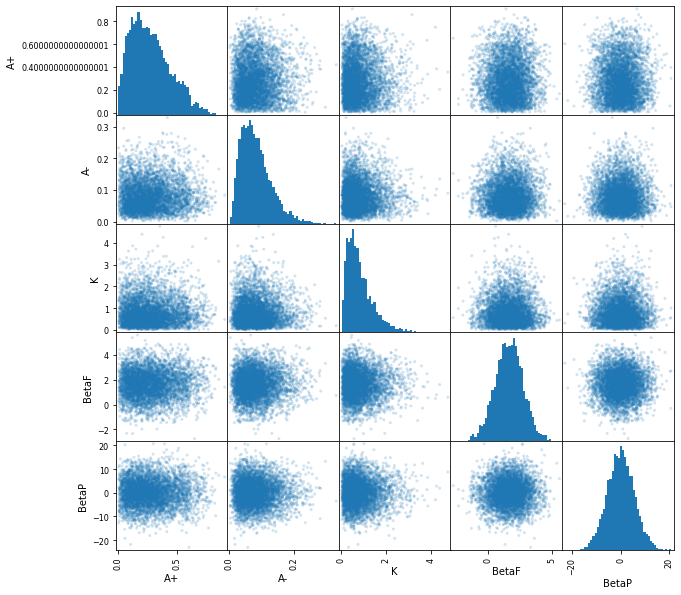
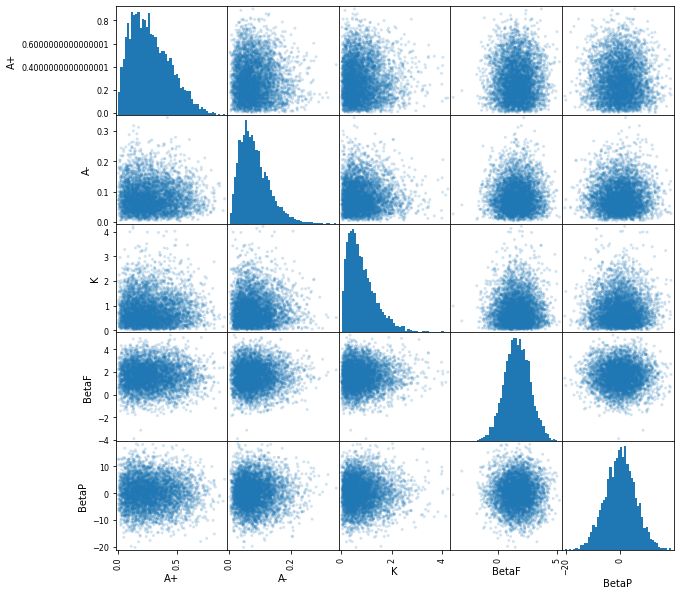
deploy: 160e589b29d0ebd772e9ecb983bc2175a27bedd5

diff --git a/searchindex.js b/searchindex.js
@@ -1,1 +1,1 @@
-Search.setIndex({docnames:["clustering","conclusion","data_exploration","introduction","synthetic_data"],envversion:{"sphinx.domains.c":1,"sphinx.domains.changeset":1,"sphinx.domains.citation":1,"sphinx.domains.cpp":1,"sphinx.domains.index":1,"sphinx.domains.javascript":1,"sphinx.domains.math":2,"sphinx.domains.python":1,"sphinx.domains.rst":1,"sphinx.domains.std":1,sphinx:56},filenames:["clustering.ipynb","conclusion.ipynb","data_exploration.ipynb","introduction.ipynb","synthetic_data.ipynb"],objects:{},objnames:{},objtypes:{},terms:{"\u0177_i":0,"case":4,"final":4,"function":4,"new":3,"return":[0,4],"switch":[0,1],"true":4,"while":0,Age:0,For:[0,1,4],One:2,The:[0,1,2,3,4],Then:4,There:[0,1,2,3,4],These:[0,3],With:0,_df:2,abl:4,abov:0,account:0,accur:1,accuraci:1,across:[0,4],action:1,actual:2,add:[0,4],additionali:3,after:1,again:0,against:[0,1,4],aged:3,agg_cluster3:0,agg_cluster_a:0,agg_cluster_al:0,agg_cluster_old:0,agglomer:3,agglomerativeclust:0,all:2,almost:0,alon:0,alpha:[0,1,4],also:[0,2,3],although:1,amount:3,analys:3,ani:[1,2],annot:0,anoth:[0,1,2],appear:[0,1],append:[0,4],approach:3,approxim:4,around:[1,2],assign:0,assum:4,astyp:[0,2,4],attempt:3,attribut:3,avail:0,averag:[0,3],ax_row:4,back:0,bad:[3,4],balu:0,base:[1,2,4],bechara:4,been:0,behaviour:3,being:4,below:0,bend:0,beta:[1,4],beta_f:[0,1,2,3,4],beta_p:[0,1,2,3,4],beta_p_split:[2,4],betaf:[2,4],betak:1,betap:[1,2,4],better:0,between:[0,2,4],bin:[0,2,4],bit:4,blue:[0,4],book:2,both:[2,4],bottom:0,box:0,c_i:0,calcul:0,can:[2,3,4],captur:4,card:3,cat:[0,2,4],categori:[0,2,4],center:1,central:[0,4],centroid:0,centroids_beta:0,certain:1,characterist:0,check:0,choic:1,choos:0,chose:3,chosen:[2,3],clear:[0,2],clearli:[0,4],closer:4,cluster:[3,4],cluster_centers_:0,cmap:[0,2],code:[0,2,4],coeffici:0,col:4,column:4,come:2,compar:[0,4],complet:0,concat:4,concentr:[2,4],conclus:2,confusion_matrix:0,consist:[0,3],contain:0,continu:4,cortex:[1,4],could:[0,4],cover:0,creat:4,csv:[0,2],curv:0,d_param:4,damag:4,data:[0,1,3],data_df:4,datafram:4,datapoint:0,dataset:4,deal:2,decai:[1,2,4],decis:3,deck:[0,1,3,4],deeper:2,def:[0,4],defin:[0,4],degred:4,densiti:4,depend:2,describ:3,detail:[3,4],deviat:4,df1:0,df_orl:[0,2,4],df_orl_old:[0,2,4],df_orl_old_a:4,df_orl_old_b:4,df_orl_young:[2,4],diagon:2,dict:[0,2,4],differ:[0,2,3,4],difficult:2,discov:1,discoveri:1,displai:4,dist_param:4,dist_params_list:4,dist_params_old:4,dist_params_old_a:4,dist_params_old_b:4,dist_params_young:4,distanc:0,distict:0,distinct:[1,4],distort:0,distribut:[0,1,2,3],divid:0,divmod:4,doe:0,down:2,draw:4,draw_dist_fit:4,drill:2,drop:4,dure:[0,1,4],dysfunct:1,each:[0,1,2,3,4],easier:0,easili:0,either:[0,3],elif:4,elimin:0,enough:1,entir:4,enumer:4,epsilon:0,equat:0,error:0,euclidean:0,evalu:3,even:4,evenli:0,examin:1,exampl:[1,3],except:2,exhibit:0,expect:0,explain:[1,4],explor:[0,1,3,4],face:4,fairli:4,fake:4,fals:4,fig:[0,4],figsiz:[0,2,4],figur:0,find:[1,3],first:[0,1,4],fit:[0,3,4],fit_all_param:4,fit_beta:4,fit_gamma:4,fit_norm:4,floc:4,follow:[1,2,3,4],foremost:1,format:4,found:[1,4],frac:0,freq:2,frequenc:[0,1],from:[0,1,4],fscale:4,further:[1,2],furthermor:0,futher:2,futur:1,gambl:1,game:3,gamma:[1,4],gather:1,gener:[1,3],gentl:0,get:4,given:1,goal:3,goe:0,going:2,good:[0,3],graph:0,greater:0,grei:2,group:3,group_label:4,group_siz:4,had:[0,1],hard:0,has:[0,3,4],have:[0,1,2,3,4],head:[0,2,4],heatmap:0,help:0,here:[0,2,4],hide:4,hierarch:3,high:[0,1,4],higher:[0,1,4],hist:[2,4],hist_kwd:[0,2,4],how:0,howev:[0,4],hypothes:1,hypothesi:1,identifi:0,igt:3,improv:0,independ:4,indic:0,individu:3,inertia_:0,inform:1,initi:0,integ:4,interest:1,investig:[0,1],iowa:1,isn:1,item:4,its:[0,1],just:[0,1],kmean:0,kmeanmodel:0,kmeans2:0,kmeans_beta:0,label:[0,2,4],labels_:0,labels_a:0,labels_b:0,larg:4,lead:3,learn:[1,2,3],left:[0,2,4],len:4,less:[0,2],let:[0,4],level:0,life:3,like:0,line:0,linspac:4,loc:4,look:[0,2,3],lose:3,loss:3,lot:0,low:[0,1,4],lower:[0,1],lying:0,mai:4,mainli:[0,1],major:0,make:3,mani:[1,3],mark:2,match:0,max:[0,4],mean:[1,3,4],measur:[0,3],method:[3,4],metric:[0,1],middl:[0,1],min:4,mix:0,model:[0,1,3],model_param:4,monei:3,more:[1,2,3,4],most:[0,1],mostli:0,much:[0,2,3,4],n_cluster:0,nan:4,need:[1,4],neighbour:0,net:3,neutral:[0,1],nice:2,norm:4,normal:[1,2,4],notabl:4,note:4,notic:0,now:[0,4],number:[0,2,3],object:0,observ:0,often:0,old:[1,3],one:[1,3,4],onli:4,optim:[0,3],orang:4,orbifront:1,orl:[3,4],other:[0,1,2],our:[1,3,4],out:[0,2,4],outcom:[0,1,2,3,4],over:3,overlap:0,own:0,page:1,paper:1,param:4,paramat:[0,1],paramet:[1,2,3],parameter_igt_orl:[0,2],parameteris:4,paramount:1,particip:[0,1,2,3,4],particular:0,pdf:4,peak:0,peopl:[0,1,2],perserver:4,persever:[0,1,2],person:[0,4],phenotyp:1,pick:0,plai:3,plot:[0,1,2,4],plt:[0,2,4],point:[0,2,4],poisson:4,poorli:0,possibl:[1,3],predict:1,predomin:1,prefer:[0,1],prefront:4,present:3,previou:0,primarili:0,principl:0,print:4,proport:4,prove:1,proxi:3,psycholog:3,punish:[2,3,4],quit:4,rang:[0,4],rate:[1,2,4],read_csv:[0,2],real:[3,4],realiti:4,realli:4,reason:[0,1],red:2,reinforc:3,relat:0,repres:[2,3,4],represent:[1,3,4],research:1,result:1,reveal:1,reward:[2,3],right:[0,2],roughli:[2,4],row:4,rvs:4,same:[0,2,4],sampl:[1,4],saw:4,scale:4,scatter:0,scatter_matrix:[0,2,4],score:[0,1],second:0,section:3,see:[0,2,4],seem:[0,2,4],separ:0,seri:4,set1:[0,2],set1_r:0,set_titl:4,set_vis:4,set_xlabel:0,set_ylabel:[0,4],set_yticklabel:0,shape:4,show:[0,1,2,4],sigma:4,signific:[0,1],silhouette_scor:0,similar:[0,2,4],simul:3,singl:0,size:[1,4],sizeabl:0,skew:[2,4],slight:4,slightli:[0,2],smaller:0,solid:2,solidifi:1,some:[0,1],somewhat:0,split:[0,3,4],spread:[0,2,4],squar:0,sse:0,standard:4,start:4,std:4,stdout:4,stem:0,stick:0,still:0,structur:3,struggl:4,studi:1,subjid:[0,2,4],subjid_label:[0,2],subplot:[0,4],successfulli:0,sum:0,sum_:0,support:1,synth_data:4,synth_datafram:4,synth_df:4,synth_singl:4,synthesi:1,synthet:3,system:1,task:1,tend:1,tendenc:[0,1],than:4,thei:[0,1,3,4],them:[2,3,4],theta:4,thi:[0,1,2,3,4],those:0,though:4,thought:3,three:[0,1,4],through:0,time:[0,3],titl:[0,4],top:0,trial:3,turn:3,two:[1,2,3],uncertainti:0,underli:4,understand:0,uniform:[2,4],unus:4,use:[0,3,4],used:[1,3,4],using:[0,1,3],valid:[0,4],valu:[0,1,2,4],vari:[2,3],variat:[0,2,3],varieti:4,veri:0,versu:4,viridi:0,visual:0,wai:3,well:[0,4],were:[1,3],what:0,when:[0,1,4],where:[0,1],which:[0,1,2,3,4],who:[0,1],whole:2,whose:0,win:[0,1],within:[0,4],work:[1,4],would:[2,4],xlabel:0,y_i:0,y_label:4,ylabel:0,you:0,young:[1,3],zero:0,zip:4},titles:["Clustering","Conclusions","Data Exploration","Introduction","Generating Synthetic Data"],titleterms:{"new":4,Using:0,age:0,agglom:0,all:[0,4],analysi:[0,3],appli:4,back:4,base:0,betaf:0,betak:0,betap:0,choos:4,classifi:0,cluster:[0,1],column:0,conclus:1,data:[2,4],dataset:[2,3],distribut:4,elbow:0,entir:2,evalu:0,explor:2,find:0,gambl:3,gener:4,group:[0,2,4],hierarch:0,introduct:3,iowa:3,mean:0,method:0,model:4,more:0,old:[0,2,4],onli:0,paramet:[0,4],paramt:2,prep:2,put:4,result:4,silhouett:0,singl:4,smaller:4,split:2,synthet:4,task:3,than:0,togeth:4,two:0,type:4,visualis:2,young:[0,2,4]}})
+Search.setIndex({docnames:["clustering","conclusion","data_exploration","introduction","synthetic_data"],envversion:{"sphinx.domains.c":1,"sphinx.domains.changeset":1,"sphinx.domains.citation":1,"sphinx.domains.cpp":1,"sphinx.domains.index":1,"sphinx.domains.javascript":1,"sphinx.domains.math":2,"sphinx.domains.python":1,"sphinx.domains.rst":1,"sphinx.domains.std":1,sphinx:56},filenames:["clustering.ipynb","conclusion.ipynb","data_exploration.ipynb","introduction.ipynb","synthetic_data.ipynb"],objects:{},objnames:{},objtypes:{},terms:{"\u0177_i":0,"case":4,"final":4,"function":4,"new":3,"return":[0,4],"switch":[0,1],"true":4,"while":0,Age:0,For:[0,1,4],One:2,The:[0,1,2,3,4],Then:4,There:[0,1,2,3,4],These:[0,3],With:0,_df:2,abl:4,abov:0,account:0,accur:1,accuraci:1,across:[0,4],action:1,actual:2,add:[0,4],additionali:3,after:1,again:0,against:[0,1,4],aged:3,agg_cluster3:0,agg_cluster_a:0,agg_cluster_al:0,agg_cluster_old:0,agglomer:3,agglomerativeclust:0,all:2,almost:0,alon:0,alpha:[0,1,4],also:[0,2,3],although:1,amount:3,analys:3,ani:[1,2],annot:0,anoth:[0,1,2],appear:[0,1],append:[0,4],approach:3,approxim:4,around:[1,2],assign:0,assum:4,astyp:[0,2,4],attempt:3,attribut:3,avail:0,averag:[0,3],ax_row:4,back:0,bad:[3,4],balu:0,base:[1,2,4],bechara:4,been:0,behaviour:3,being:4,below:0,bend:0,beta:[1,4],beta_f:[0,1,2,3,4],beta_p:[0,1,2,3,4],beta_p_split:[2,4],betaf:[2,4],betak:1,betap:[1,2,4],better:0,between:[0,2,4],bin:[0,2,4],bit:4,blue:[0,4],book:2,both:[2,4],bottom:0,box:0,c_i:0,calcul:0,can:[2,3,4],captur:4,card:3,cat:[0,2,4],categori:[0,2,4],center:1,central:[0,4],centroid:0,centroids_beta:0,certain:1,characterist:0,check:0,choic:1,choos:0,chose:3,chosen:[2,3],clear:[0,2],clearli:[0,4],closer:4,cluster:[1,3,4],cluster_centers_:0,cmap:[0,2],code:[0,2,4],coeffici:0,col:4,column:4,come:2,compar:[0,4],complet:0,concat:4,concentr:[2,4],conclus:2,confusion_matrix:0,consist:[0,3],contain:0,continu:4,cortex:[1,4],could:[0,4],cover:0,creat:4,csv:[0,2],curv:0,d_param:4,damag:4,data:[0,1,3],data_df:4,datafram:4,datapoint:0,dataset:4,deal:2,decai:[1,2,4],decis:3,deck:[0,1,3,4],deeper:2,def:[0,4],defin:[0,4],degred:4,densiti:4,depend:2,describ:3,detail:[3,4],deviat:4,df1:0,df_orl:[0,2,4],df_orl_old:[0,2,4],df_orl_old_a:4,df_orl_old_b:4,df_orl_young:[2,4],diagon:2,dict:[0,2,4],differ:[0,2,3,4],difficult:2,discov:1,discoveri:1,displai:4,dist_param:4,dist_params_list:4,dist_params_old:4,dist_params_old_a:4,dist_params_old_b:4,dist_params_young:4,distanc:0,distict:0,distinct:[1,4],distort:0,distribut:[0,1,2,3],divid:0,divmod:4,doe:0,down:2,draw:4,draw_dist_fit:4,drill:2,drop:4,dure:[0,1,4],dysfunct:1,each:[0,1,2,3,4],easier:0,easili:0,either:[0,3],elif:4,elimin:0,enough:1,entir:4,enumer:4,epsilon:0,equat:0,error:0,euclidean:0,evalu:3,even:4,evenli:0,examin:1,exampl:[1,3],except:2,exhibit:0,expect:0,explain:[1,4],explor:[0,1,3,4],face:4,fairli:4,fake:4,fals:4,fig:[0,4],figsiz:[0,2,4],figur:0,find:[1,3],first:[0,1,4],fit:[0,3,4],fit_all_param:4,fit_beta:4,fit_gamma:4,fit_norm:4,floc:4,follow:[1,2,3,4],foremost:1,format:4,found:[1,4],frac:0,freq:2,frequenc:[0,1],from:[0,1,4],fscale:4,further:[1,2],furthermor:0,futher:2,futur:1,gambl:1,game:3,gamma:[1,4],gather:1,gener:[1,3],gentl:0,get:4,given:1,goal:3,goe:0,going:2,good:[0,3],graph:0,greater:0,grei:2,group:3,group_label:4,group_siz:4,had:[0,1],hard:0,has:[0,3,4],have:[0,1,2,3,4],head:[0,2,4],heatmap:0,help:0,here:[0,2,4],hide:4,hierarch:3,high:[0,1,4],higher:[0,1,4],hist:[2,4],hist_kwd:[0,2,4],how:0,howev:[0,4],hypothes:1,hypothesi:1,identifi:0,igt:3,improv:0,independ:4,indic:0,individu:3,inertia_:0,inform:1,initi:0,integ:4,interest:1,investig:[0,1],iowa:1,isn:1,item:4,its:[0,1],just:[0,1],kmean:0,kmeanmodel:0,kmeans2:0,kmeans_beta:0,label:[0,2,4],labels_:0,labels_a:0,labels_b:0,larg:4,lead:3,learn:[1,2,3],left:[0,2,4],len:4,less:[0,2],let:[0,4],level:0,life:3,like:0,line:0,linspac:4,loc:4,look:[0,2,3],lose:3,loss:3,lot:0,low:[0,1,4],lower:[0,1],lying:0,mai:4,mainli:[0,1],major:0,make:3,mani:[1,3],mark:2,match:0,max:[0,4],mean:[1,3,4],measur:[0,3],method:[3,4],metric:[0,1],middl:[0,1],min:4,mix:0,model:[0,1,3],model_param:4,monei:3,more:[1,2,3,4],most:[0,1],mostli:0,much:[0,2,3,4],n_cluster:0,nan:4,need:[1,4],neighbour:0,net:3,neutral:[0,1],nice:2,norm:4,normal:[1,2,4],notabl:4,note:4,notic:0,now:[0,4],number:[0,2,3],object:0,observ:0,often:0,old:[1,3],one:[1,3,4],onli:4,optim:[0,3],orang:4,orbifront:1,orl:[3,4],other:[0,1,2],our:[1,3,4],out:[0,2,4],outcom:[0,1,2,3,4],over:3,overlap:0,own:0,page:1,paper:1,param:4,paramat:[0,1],paramet:[1,2,3],parameter_igt_orl:[0,2],parameteris:4,paramount:1,particip:[0,1,2,3,4],particular:0,pdf:4,peak:0,peopl:[0,1,2],perserver:4,persever:[0,1,2],person:[0,4],phenotyp:1,pick:0,plai:3,plot:[0,1,2,4],plt:[0,2,4],point:[0,2,4],poisson:4,poorli:0,possibl:[1,3],predict:1,predomin:1,prefer:[0,1],prefront:4,present:3,previou:0,primarili:0,principl:0,print:4,proport:4,prove:1,proxi:3,psycholog:3,punish:[2,3,4],quit:4,rang:[0,4],rate:[1,2,4],read_csv:[0,2],real:[3,4],realiti:4,realli:4,reason:[0,1],red:2,reinforc:3,relat:0,repres:[2,3,4],represent:[1,3,4],research:1,result:1,reveal:1,reward:[2,3],right:[0,2],roughli:[2,4],row:4,rvs:4,same:[0,2,4],sampl:[1,4],saw:4,scale:4,scatter:0,scatter_matrix:[0,2,4],score:[0,1],second:0,section:3,see:[0,2,4],seem:[0,2,4],separ:0,seri:4,set1:[0,2],set1_r:0,set_titl:4,set_vis:4,set_xlabel:0,set_ylabel:[0,4],set_yticklabel:0,shape:4,show:[0,1,2,4],sigma:4,signific:[0,1],silhouette_scor:0,similar:[0,2,4],simul:3,singl:0,size:[1,4],sizeabl:0,skew:[2,4],slight:4,slightli:[0,2],smaller:0,solid:2,solidifi:1,some:[0,1],somewhat:0,split:[0,3,4],spread:[0,2,4],squar:0,sse:0,standard:4,start:4,std:4,stdout:4,stem:0,stick:0,still:0,structur:3,struggl:4,studi:1,subjid:[0,2,4],subjid_label:[0,2],subplot:[0,4],successfulli:0,sum:0,sum_:0,support:1,synth_data:4,synth_datafram:4,synth_df:4,synth_singl:4,synthesi:1,synthet:3,system:1,task:1,tend:1,tendenc:[0,1],than:4,thei:[0,1,3,4],them:[2,3,4],theta:4,thi:[0,1,2,3,4],those:0,though:4,thought:3,three:[0,1,4],through:0,time:[0,3],titl:[0,4],top:0,trial:3,turn:3,two:[1,2,3],uncertainti:0,underli:4,understand:0,uniform:[2,4],unus:4,use:[0,3,4],used:[1,3,4],using:[0,1,3],valid:[0,4],valu:[0,1,2,4],vari:[2,3],variat:[0,2,3],varieti:4,veri:0,versu:4,viridi:0,visual:0,wai:3,well:[0,4],were:[1,3],what:0,when:[0,1,4],where:[0,1],which:[0,1,2,3,4],who:[0,1],whole:2,whose:0,win:[0,1],within:[0,4],work:[1,4],would:[2,4],xlabel:0,y_i:0,y_label:4,ylabel:0,you:0,young:[1,3],zero:0,zip:4},titles:["Clustering","Conclusions","Data Exploration","Introduction","Generating Synthetic Data"],titleterms:{"new":4,Using:0,age:0,agglom:0,all:[0,4],analysi:[0,3],appli:4,back:4,base:0,betaf:0,betak:0,betap:0,choos:4,classifi:0,cluster:0,column:0,conclus:1,data:[2,4],dataset:[2,3],distribut:4,elbow:0,entir:2,evalu:0,explor:2,find:0,gambl:3,gener:4,group:[0,2,4],hierarch:0,introduct:3,iowa:3,mean:0,method:0,model:4,more:0,old:[0,2,4],onli:0,paramet:[0,4],paramt:2,prep:2,put:4,result:4,silhouett:0,singl:4,smaller:4,split:2,synthet:4,task:3,than:0,togeth:4,two:0,type:4,visualis:2,young:[0,2,4]}})

diff --git a/synthetic_data.html b/synthetic_data.html
@@ -505,43 +505,43 @@ Here we generate 5000 fake data points based on the entire dataset.</p>
   <tbody>
     <tr>
       <th>0</th>
-      <td>0.232722</td>
-      <td>0.050061</td>
-      <td>0.202516</td>
-      <td>2.288040</td>
-      <td>4.237800</td>
+      <td>0.228704</td>
+      <td>0.029733</td>
+      <td>0.406598</td>
+      <td>4.348894</td>
+      <td>-4.621616</td>
     </tr>
     <tr>
       <th>1</th>
-      <td>0.306349</td>
-      <td>0.028161</td>
-      <td>0.062407</td>
-      <td>0.407860</td>
-      <td>6.864061</td>
+      <td>0.471016</td>
+      <td>0.130897</td>
+      <td>0.109413</td>
+      <td>1.710904</td>
+      <td>7.213538</td>
     </tr>
     <tr>
       <th>2</th>
-      <td>0.287915</td>
-      <td>0.035192</td>
-      <td>0.656951</td>
-      <td>0.997450</td>
-      <td>3.291913</td>
+      <td>0.388321</td>
+      <td>0.041281</td>
+      <td>0.683039</td>
+      <td>3.263625</td>
+      <td>4.411435</td>
     </tr>
     <tr>
       <th>3</th>
-      <td>0.095973</td>
-      <td>0.039724</td>
-      <td>0.441162</td>
-      <td>3.347985</td>
-      <td>-5.453139</td>
+      <td>0.319302</td>
+      <td>0.100072</td>
+      <td>0.532848</td>
+      <td>2.001456</td>
+      <td>-3.406231</td>
     </tr>
     <tr>
       <th>4</th>
-      <td>0.175884</td>
-      <td>0.054911</td>
-      <td>0.960433</td>
-      <td>2.149390</td>
-      <td>-11.046801</td>
+      <td>0.461670</td>
+      <td>0.110721</td>
+      <td>0.252183</td>
+      <td>0.352051</td>
+      <td>-10.170042</td>
     </tr>
   </tbody>
 </table>
@@ -991,102 +991,102 @@ Finally the <span class="math notranslate nohighlight">\(\beta_P\)</span> parame
   </thead>
   <tbody>
     <tr>
-      <th>6945</th>
-      <td>0.485894</td>
-      <td>0.058986</td>
-      <td>0.426905</td>
-      <td>1.472334</td>
-      <td>4.848697</td>
+      <th>2426</th>
+      <td>0.490860</td>
+      <td>0.133709</td>
+      <td>2.983316</td>
+      <td>2.573909</td>
+      <td>-6.977261</td>
+      <td>old - type A</td>
+      <td>0</td>
+    </tr>
+    <tr>
+      <th>4178</th>
+      <td>0.127966</td>
+      <td>0.078342</td>
+      <td>0.113710</td>
+      <td>3.031198</td>
+      <td>-6.045208</td>
+      <td>old - type A</td>
+      <td>0</td>
+    </tr>
+    <tr>
+      <th>5112</th>
+      <td>0.258838</td>
+      <td>0.133128</td>
+      <td>0.682604</td>
+      <td>1.667189</td>
+      <td>-1.588802</td>
       <td>young</td>
       <td>2</td>
     </tr>
     <tr>
-      <th>8508</th>
-      <td>0.200688</td>
-      <td>0.036010</td>
-      <td>0.739959</td>
-      <td>1.650150</td>
-      <td>1.398579</td>
+      <th>248</th>
+      <td>0.282203</td>
+      <td>0.060215</td>
+      <td>0.860918</td>
+      <td>2.464386</td>
+      <td>1.197679</td>
       <td>young</td>
       <td>2</td>
     </tr>
     <tr>
-      <th>3246</th>
-      <td>0.199366</td>
-      <td>0.143925</td>
-      <td>0.551973</td>
-      <td>0.628994</td>
-      <td>-5.608722</td>
-      <td>old - type A</td>
-      <td>0</td>
-    </tr>
-    <tr>
-      <th>2823</th>
-      <td>0.656899</td>
-      <td>0.036379</td>
-      <td>0.036241</td>
-      <td>2.055170</td>
-      <td>-1.902257</td>
-      <td>old - type A</td>
-      <td>0</td>
-    </tr>
-    <tr>
-      <th>5273</th>
-      <td>0.188815</td>
-      <td>0.016924</td>
-      <td>0.478498</td>
-      <td>1.104379</td>
-      <td>-3.143493</td>
+      <th>1805</th>
+      <td>0.190571</td>
+      <td>0.078893</td>
+      <td>0.983050</td>
+      <td>3.040674</td>
+      <td>4.491278</td>
       <td>young</td>
       <td>2</td>
     </tr>
     <tr>
-      <th>3552</th>
-      <td>0.434584</td>
-      <td>0.150429</td>
-      <td>0.036962</td>
-      <td>2.407563</td>
-      <td>0.488568</td>
-      <td>old - type A</td>
-      <td>0</td>
-    </tr>
-    <tr>
-      <th>8075</th>
-      <td>0.397142</td>
-      <td>0.102041</td>
-      <td>0.279969</td>
-      <td>1.134996</td>
-      <td>2.310173</td>
+      <th>6653</th>
+      <td>0.204007</td>
+      <td>0.088114</td>
+      <td>0.640886</td>
+      <td>1.506545</td>
+      <td>-1.166510</td>
       <td>young</td>
       <td>2</td>
     </tr>
     <tr>
-      <th>2473</th>
-      <td>0.249147</td>
-      <td>0.072665</td>
-      <td>1.159619</td>
-      <td>1.253919</td>
-      <td>-7.409323</td>
+      <th>1897</th>
+      <td>0.197188</td>
+      <td>0.106205</td>
+      <td>0.487158</td>
+      <td>0.611097</td>
+      <td>2.474041</td>
+      <td>young</td>
+      <td>2</td>
+    </tr>
+    <tr>
+      <th>1830</th>
+      <td>0.148154</td>
+      <td>0.068632</td>
+      <td>0.634880</td>
+      <td>3.124100</td>
+      <td>1.004996</td>
+      <td>young</td>
+      <td>2</td>
+    </tr>
+    <tr>
+      <th>313</th>
+      <td>0.234283</td>
+      <td>0.047425</td>
+      <td>1.756991</td>
+      <td>2.243686</td>
+      <td>-1.178305</td>
       <td>old - type A</td>
       <td>0</td>
     </tr>
     <tr>
-      <th>3994</th>
-      <td>0.663346</td>
-      <td>0.072757</td>
-      <td>0.086251</td>
-      <td>3.135635</td>
-      <td>-1.135260</td>
-      <td>old - type A</td>
-      <td>0</td>
-    </tr>
-    <tr>
-      <th>7842</th>
-      <td>0.148938</td>
-      <td>0.124339</td>
-      <td>0.653114</td>
-      <td>0.513832</td>
-      <td>0.410832</td>
+      <th>5688</th>
+      <td>0.074100</td>
+      <td>0.039797</td>
+      <td>0.480974</td>
+      <td>3.864684</td>
+      <td>0.305974</td>
       <td>young</td>
       <td>2</td>
     </tr>

diff --git a/conclusion.html b/conclusion.html
@@ -183,20 +183,6 @@
     <!-- Table of contents -->
     <div class="d-none d-md-block col-md-2 bd-toc show">
         
-        <div class="tocsection onthispage pt-5 pb-3">
-            <i class="fas fa-list"></i> Contents
-        </div>
-        <nav id="bd-toc-nav">
-            <ul class="nav section-nav flex-column">
- <li class="toc-h2 nav-item toc-entry">
-  <a class="reference internal nav-link" href="#clustering">
-   Clustering
-  </a>
- </li>
-</ul>
-
-        </nav>
-        
     </div>
 </div>
     <div id="main-content" class="row">
@@ -206,8 +192,6 @@
                 
   <div class="section" id="conclusions">
 <h1>Conclusions<a class="headerlink" href="#conclusions" title="Permalink to this headline">¶</a></h1>
-<div class="section" id="clustering">
-<h2>Clustering<a class="headerlink" href="#clustering" title="Permalink to this headline">¶</a></h2>
 <p>In this paper, we investigate the clustering of parameters of just one of the models used in the Iowa Gambling task, the Outcome-Representation Learning model. Our reason of choice was based on which system had the most interesting parameters to examine and cluster. Our findings in the data exploration page further proved our hypothesis after plotting the distributions of the parameters against each other.</p>
 <p>The most significant clustering result we discovered was when clustering BetaP and BetaK using K-Means. There were three distinct clusters of:</p>
 <ol class="simple">
@@ -218,7 +202,6 @@
 <p>This followed the distribution of the two parameters where, people who had a lower perseverence and preferred to switch decks in the task generally had a higher win frequency. Although there isn’t enough data to solidify this conclusion, this is the result we found significant.</p>
 <p>There are many possibilities for future work for this model. First and foremost, a higher sample size will be needed to support any hypotheses gathered from the model and its clusters. More information on each of the participants is paramount in explaining the clusters of data. For example, some studies show that people with orbifrontal cortex dysfunction tend to have a high value for the perseverence metric. Further studies of the task and the participant information will result in the discovery of certain phenotypes’ tendencies of actions during the task.</p>
 <p>Exploring the paramater plots revealed their distributions. Based on the data given to us, they appear to follow: Normal distribution for <span class="math notranslate nohighlight">\(\beta_F\)</span> and <span class="math notranslate nohighlight">\(\beta_P\)</span>, Beta(<span class="math notranslate nohighlight">\(\alpha\)</span>,<span class="math notranslate nohighlight">\(\beta\)</span>) distribution for A+ and A-, and a Gamma distribution for the rate of decay K. More research into this will result in accurate data synthesis. There is a possibility that peoples’ participation in the task will be predicted with high accuracy based on their information.</p>
-</div>
 </div>
 
 
